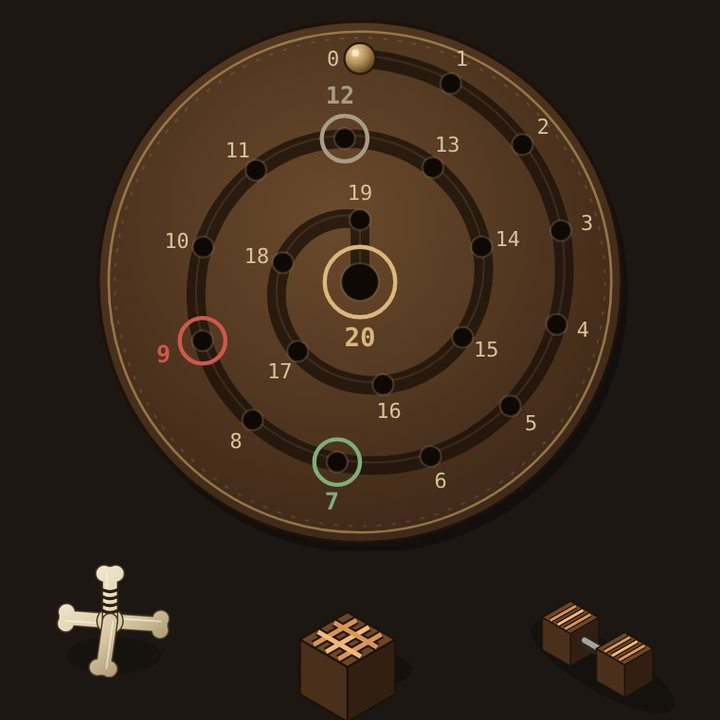
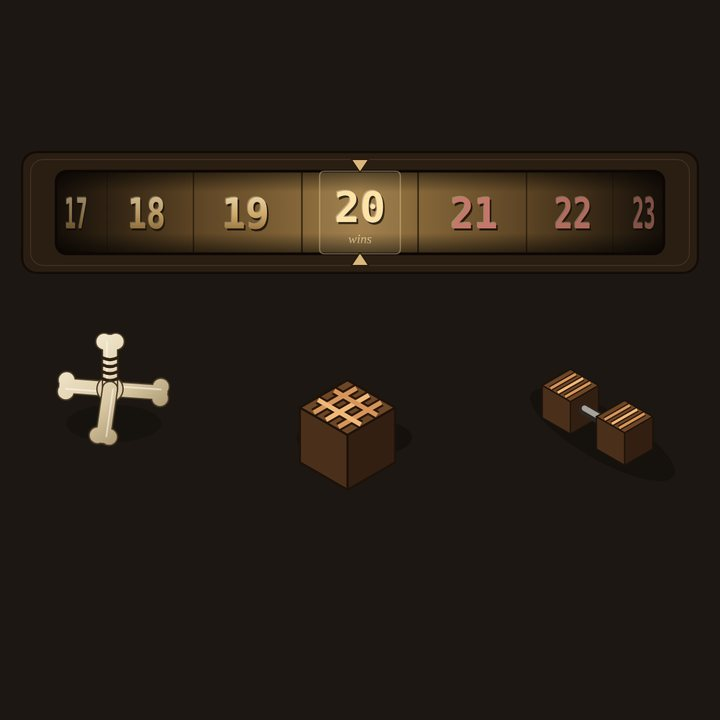
Fiche: dial, split tray and dice beside it
The total now shows on a spinning bronze dial with embossed numbers,
in place of the spiral board (kept in the code, hidden). Each
player's dice stand in a column beside a narrower tray split down the
middle, and rolled dice land on the roller's own half, so the dice
and the total are visible together. Front-page image updated.

Claude-Session: https://claude.ai/code/session_01BjwL3VDDg4VQwAjia9yU2n

diff --git a/fiche/index.html b/fiche/index.html
@@ -54,6 +54,7 @@ h1 { font-family: var(--font-display); font-weight: 400; font-size: clamp(2.2rem
 .status.again { color: var(--again); }
 svg.wide { width: 100%; height: auto; display: block; }
 .disk-wrap { display: grid; gap: 4px; justify-items: center; }
+.disk-wrap[hidden] { display: none; }
 #pegs { width: 100%; max-width: 380px; height: auto; display: block; }
 .total { margin: 0; font-family: var(--font-mono); font-size: .85rem; color: var(--muted); }
 .total b { font-size: 1.6rem; color: var(--bronze-hi); font-weight: 500; }
@@ -65,24 +66,33 @@ svg.wide { width: 100%; height: auto; display: block; }
 .hand-head .who.you { color: var(--you); }
 .hand-head .who.rival { color: var(--rival); }
 .hand-head .note { font-size: .88rem; color: var(--muted); font-style: italic; }
-.dice { display: grid; grid-template-columns: repeat(3, minmax(0, 1fr)); gap: 10px; }
+.playfield { display: grid; grid-template-columns: minmax(0, 150px) minmax(0, 1fr) minmax(0, 150px); gap: 12px; align-items: start; }
+#tray { width: 100%; height: auto; display: block; }
+#dial { border-radius: 12px; }
+.dice { display: grid; grid-template-columns: minmax(0, 1fr); gap: 8px; }
+.hand-head { min-height: 2.6em; align-content: start; }
+.hand.rival .hand-head { text-align: right; justify-content: flex-end; }
+@media (max-width: 640px) {
+  .playfield { grid-template-columns: minmax(0, 1fr); }
+  .playfield .dice { grid-template-columns: repeat(3, minmax(0, 1fr)); }
+  #youHand { order: 3; } #tray { order: 2; } #rivalHand { order: 1; }
+  .hand-head { min-height: 0; }
+}
 .die-btn {
   font: inherit; color: var(--ink); cursor: pointer;
   border: 1px solid var(--line); border-radius: 12px; background: linear-gradient(160deg, var(--oak-3), var(--oak-2));
   padding: 8px 6px 9px; display: grid; justify-items: center; gap: 2px; min-width: 0;
   transition: transform .15s ease, border-color .15s ease, opacity .2s;
 }
-.die-btn svg { width: 100%; max-width: 120px; height: auto; aspect-ratio: 1.3; }
-.die-btn .nm { font-weight: 600; font-size: .92rem; }
-.die-btn .rg { font-family: var(--font-mono); font-size: .74rem; color: var(--muted); }
+.die-btn svg { width: 100%; max-width: 92px; height: auto; aspect-ratio: 1.3; }
+.die-btn .nm { font-weight: 600; font-size: .95rem; line-height: 1.2; }
+.die-btn .rg { font-family: var(--font-mono); font-size: 1.05rem; font-weight: 500; color: var(--bronze-hi); line-height: 1.2; }
 .die-btn .odds { font-family: var(--font-mono); font-size: .8rem; color: var(--bronze-hi); min-height: 1.2em; }
 .die-btn:enabled:hover { border-color: var(--bronze); transform: translateY(-2px); }
 .die-btn:focus-visible { outline: 2px solid var(--bronze-hi); outline-offset: 2px; }
 .die-btn:disabled { cursor: default; }
 .die-btn.spent { opacity: .22; }
 .die-btn.best { border-color: var(--bronze-hi); box-shadow: 0 0 0 1px var(--bronze-hi) inset; }
-.rival .die-btn { padding: 4px 4px 6px; }
-.rival .die-btn svg { max-width: 84px; }
 
 aside { display: grid; gap: 22px; min-width: 0; }
 .panel { display: grid; gap: 9px; }
@@ -151,22 +161,25 @@ button.btn.coach[aria-pressed="true"] { border-style: solid; border-color: var(-
   <div class="game">
     <section class="table" aria-label="The table">
       <div class="status" id="status" role="status" aria-live="polite"></div>
-      <div class="disk-wrap">
+      <!-- The spiral board is kept but hidden for now; the dial shows the total. -->
+      <div class="disk-wrap" hidden>
         <svg id="pegs" viewBox="0 0 260 260" aria-label="Scoring spiral"></svg>
         <p class="total" id="totalLine">Total <b>0</b></p>
       </div>
-      <div class="hand rival" id="rivalHand">
-        <div class="hand-head"><span class="who rival" id="rivalName">Rival</span><span class="note" id="rivalNote"></span></div>
-        <div class="dice" id="rivalDice"></div>
-      </div>
+      <svg id="dial" class="wide" viewBox="0 0 640 118" role="img" aria-label="Total"></svg>
 
-      <svg id="tray" class="wide" viewBox="0 0 640 258" aria-label="Rolling tray"></svg>
+      <div class="playfield">
+        <div class="hand you" id="youHand">
+          <div class="hand-head"><span class="who you" id="youName">You</span><span class="note" id="youNote"></span></div>
+          <div class="dice" id="youDice"></div>
+        </div>
+        <svg id="tray" viewBox="0 0 420 300" aria-label="Rolling tray, your half on the left and your rival's on the right"></svg>
+        <div class="hand rival" id="rivalHand">
+          <div class="hand-head"><span class="who rival" id="rivalName">Rival</span><span class="note" id="rivalNote"></span></div>
+          <div class="dice" id="rivalDice"></div>
+        </div>
+      </div>
       <div class="card" id="card" hidden></div>
-
-      <div class="hand you" id="youHand">
-        <div class="hand-head"><span class="who you" id="youName">You</span><span class="note" id="youNote"></span></div>
-        <div class="dice" id="youDice"></div>
-      </div>
     </section>
 
     <aside>
@@ -440,9 +453,62 @@ button.btn.coach[aria-pressed="true"] { border-style: solid; border-color: var(-
     h += `<g id="pegMark" style="transition: transform .12s ease-out"><circle cx="0" cy="0" r="7.5" fill="url(#peg)" stroke="#2a1a0a"/><circle cx="-2.2" cy="-2.6" r="1.8" fill="#fff" opacity=".55"/></g>`;
     pegsEl.innerHTML = h;
   }
+  // The dial: a bronze drum turning on a vertical axis behind a window, with the
+  // numbers embossed around it. The total sits under the pointer at the centre.
+  const dialEl = document.getElementById("dial");
+  const DIAL = { pos: 0, raf: 0 }, DSTEP = 21, DR = 300;
+  const DMARK = { 7: ["again", "#a9d6a2"], 9: ["loses", "#f08c80"], 12: ["draw", "#d8cdb6"], 20: ["wins", "#ffe2a6"] };
+  function drawDial(pos) {
+    let h = `<defs>
+      <linearGradient id="drum" x1="0" y1="0" x2="1" y2="0"><stop offset="0" stop-color="#140e08"/><stop offset=".22" stop-color="#5a4223"/><stop offset=".5" stop-color="#9c7a45"/><stop offset=".78" stop-color="#5a4223"/><stop offset="1" stop-color="#140e08"/></linearGradient>
+      <linearGradient id="drumV" x1="0" y1="0" x2="0" y2="1"><stop offset="0" stop-color="#000" stop-opacity=".55"/><stop offset=".25" stop-color="#000" stop-opacity="0"/><stop offset=".75" stop-color="#000" stop-opacity="0"/><stop offset="1" stop-color="#000" stop-opacity=".6"/></linearGradient>
+      <linearGradient id="num" x1="0" y1="0" x2="0" y2="1"><stop offset="0" stop-color="#fbe9c2"/><stop offset=".55" stop-color="#d0aa68"/><stop offset="1" stop-color="#7c5a2c"/></linearGradient>
+      <clipPath id="win"><rect x="34" y="20" width="572" height="78" rx="10"/></clipPath></defs>
+      <rect x="2" y="2" width="636" height="114" rx="14" fill="#2a1d12" stroke="#120b06" stroke-width="2"/>
+      <rect x="10" y="9" width="620" height="100" rx="12" fill="none" stroke="rgb(255 220 170 / .1)"/>
+      <g clip-path="url(#win)"><rect x="34" y="20" width="572" height="78" fill="url(#drum)"/>`;
+    // the drum's ribs, turning with it
+    for (let k = Math.floor(pos) - 6; k <= Math.ceil(pos) + 6; k++) {
+      const a = (k + 0.5 - pos) * DSTEP * Math.PI / 180; if (Math.abs(a) > 1.5) continue;
+      const x = 320 + DR * Math.sin(a);
+      h += `<line x1="${f(x)}" y1="20" x2="${f(x)}" y2="98" stroke="#1a1109" stroke-width="${f(1.6 * Math.cos(a))}" opacity="${f(.7 * Math.cos(a))}"/>`;
+    }
+    for (let n = 0; n <= 30; n++) {
+      const a = (n - pos) * DSTEP * Math.PI / 180; if (Math.abs(a) > 1.45) continue;
+      const c = Math.cos(a), x = 320 + DR * Math.sin(a), m = DMARK[n];
+      const fill = n > 20 ? "#c97a6e" : m ? m[1] : "url(#num)";
+      h += `<g transform="translate(${f(x)} 0) scale(${f(Math.max(.05, c))} 1)" opacity="${f(.25 + .75 * c)}">
+        <text x="1.6" y="${m ? 70 : 76}" text-anchor="middle" font-family="IBM Plex Mono, monospace" font-weight="600" font-size="40" fill="#0d0805" opacity=".8">${n}</text>
+        <text x="-1" y="${m ? 67 : 73}" text-anchor="middle" font-family="IBM Plex Mono, monospace" font-weight="600" font-size="40" fill="#fff4dc" opacity=".35">${n}</text>
+        <text x="0" y="${m ? 68 : 74}" text-anchor="middle" font-family="IBM Plex Mono, monospace" font-weight="600" font-size="40" fill="${fill}">${n}</text>
+        ${m ? `<text x="0" y="88" text-anchor="middle" font-family="Spectral, Georgia, serif" font-style="italic" font-size="12" fill="${m[1]}">${m[0]}</text>` : ""}</g>`;
+    }
+    h += `<rect x="34" y="20" width="572" height="78" fill="url(#drumV)"/></g>
+      <rect x="34" y="20" width="572" height="78" rx="10" fill="none" stroke="#0c0704" stroke-width="2.5"/>
+      <rect x="282" y="20" width="76" height="78" rx="4" fill="rgb(255 240 210 / .06)" stroke="rgb(255 225 170 / .35)" stroke-width="1.2"/>
+      <path d="M312 9 L328 9 L320 21 Z" fill="#d9b77d" stroke="#2a1a0a"/>
+      <path d="M312 109 L328 109 L320 97 Z" fill="#d9b77d" stroke="#2a1a0a"/>`;
+    dialEl.innerHTML = h;
+  }
+  function setDial(t) {
+    if (DIAL.target === t) return;
+    DIAL.target = t;
+    dialEl.setAttribute("aria-label", `Total ${t}`);
+    cancelAnimationFrame(DIAL.raf);
+    const from = DIAL.pos, t0 = performance.now(), dur = reduce ? 1 : 380 + Math.min(700, Math.abs(t - from) * 70);
+    const back = k => { const c = 1.4; return 1 + (c + 1) * Math.pow(k - 1, 3) + c * Math.pow(k - 1, 2); };
+    const step = now => {
+      const k = Math.min(1, (now - t0) / dur);
+      DIAL.pos = from + (t - from) * back(k); drawDial(DIAL.pos);
+      if (k < 1) DIAL.raf = requestAnimationFrame(step); else { DIAL.pos = t; drawDial(t); }
+    };
+    DIAL.raf = requestAnimationFrame(step);
+  }
+
   // Walk the peg along the groove one hole at a time.
   let pegAt = 0, pegTimer = null;
   function placePeg(t, instant) {
+    setDial(t);
     const m = document.getElementById("pegMark"); if (!m) return;
     const target = Math.min(20, t);
     const set = k => { const [x, y] = SPIRAL.holes[k]; m.style.transform = `translate(${x.toFixed(1)}px, ${y.toFixed(1)}px)`; };
@@ -454,26 +520,37 @@ button.btn.coach[aria-pressed="true"] { border-style: solid; border-color: var(-
     if (tl) tl.innerHTML = t > 20 ? `Total <b>${t}</b> · over` : `Total <b>${t}</b>`;
   }
 
-  // Tray slots: two rows of five
-  const slot = i => [92 + (i % 4) * 152, 84 + Math.floor(i / 4) * 128];
-  const trayH = () => Math.max(2, Math.ceil((R.rolls.length + 1) / 4)) * 128 + 40;
+  // The tray is split down the middle: your dice land on the left half, your rival's on the right.
+  const TW = 420, HALF = TW / 2;
+  const nthOf = i => R.rolls.slice(0, i).filter(r => r.p === R.rolls[i].p).length;
+  const slotFor = (p, k) => [(p === 1 ? 0 : HALF) + 57 + (k % 2) * 96, 72 + Math.floor(k / 2) * 106];
+  const slot = i => slotFor(R.rolls[i].p, nthOf(i));
+  const trayH = () => { const n = Math.max(R.rolls.filter(r => r.p === 1).length, R.rolls.filter(r => r.p === 2).length) + 1; return Math.max(3, Math.ceil(n / 2)) * 106 + 30; };
   function drawTrayBase() {
     const H = trayH();
-    trayEl.setAttribute("viewBox", `0 0 640 ${H}`);
+    trayEl.setAttribute("viewBox", `0 0 ${TW} ${H}`);
+    const you = M.mode === "pvp" ? "PLAYER 1" : "YOUR SIDE", them = M.mode === "pvp" ? "PLAYER 2" : "RIVAL'S SIDE";
     return `<defs><radialGradient id="felt" cx="50%" cy="45%" r="70%"><stop offset="0" stop-color="#3a2a1c"/><stop offset="1" stop-color="#1f160f"/></radialGradient></defs>
-      <rect x="2" y="2" width="636" height="${H - 4}" rx="16" fill="url(#felt)" stroke="#3d3328" stroke-width="2"/>
-      <rect x="12" y="12" width="616" height="${H - 24}" rx="10" fill="none" stroke="rgb(255 220 170 / .07)" stroke-dasharray="3 6"/>`;
+      <rect x="2" y="2" width="${TW - 4}" height="${H - 4}" rx="14" fill="url(#felt)" stroke="#3d3328" stroke-width="2"/>
+      <rect x="${HALF - 3}" y="10" width="6" height="${H - 20}" rx="3" fill="#120c07" stroke="rgb(255 220 170 / .12)"/>
+      <rect x="2" y="2" width="${HALF - 4}" height="${H - 4}" rx="14" fill="rgb(217 164 65 / .035)"/>
+      <rect x="${HALF + 2}" y="2" width="${HALF - 4}" height="${H - 4}" rx="14" fill="rgb(159 180 196 / .035)"/>
+      <text x="${HALF / 2}" y="24" text-anchor="middle" font-family="IBM Plex Mono, monospace" font-size="9.5" letter-spacing="2" fill="#d9a441" opacity=".55">${you}</text>
+      <text x="${HALF + HALF / 2}" y="24" text-anchor="middle" font-family="IBM Plex Mono, monospace" font-size="9.5" letter-spacing="2" fill="#9fb4c4" opacity=".55">${them}</text>`;
   }
   function drawTray(anim) {
     let h = drawTrayBase();
     R.rolls.forEach((r, i) => {
       if (anim && anim.index === i) return;
       const [x, y] = slot(i);
-      h += `<g transform="translate(${x} ${y}) scale(1.05)">${dieArt(r.d, r.v, r.seed)}</g>`;
-      h += `<text x="${x}" y="${y + 66}" text-anchor="middle" font-family="IBM Plex Mono, monospace" font-size="15" font-weight="500" fill="${r.p === 1 ? "#d9a441" : "#9fb4c4"}">${r.v}${r.v === 3 ? " ↻" : ""}</text>`;
+      h += `<g transform="translate(${x} ${y}) scale(.78)">${dieArt(r.d, r.v, r.seed)}</g>`;
+      h += `<text x="${x}" y="${y + 50}" text-anchor="middle" font-family="IBM Plex Mono, monospace" font-size="15" font-weight="500" fill="${r.p === 1 ? "#d9a441" : "#9fb4c4"}">${r.v}${r.v === 3 ? " ↻" : ""}</text>`;
     });
-    if (anim) h += `<g transform="translate(${f(anim.x)} ${f(anim.y)}) rotate(${f(anim.rot)}) scale(1.05)">${dieArt(anim.d, anim.face, anim.seed)}</g>`;
-    if (!R.rolls.length && !anim) h += `<text x="320" y="${trayH() / 2 + 6}" text-anchor="middle" font-family="Spectral, Georgia, serif" font-style="italic" font-size="16" fill="#a99c84">${M.over ? "" : "The tray is empty. " + nameOf(R.turn) + " roll first."}</text>`;
+    if (anim) h += `<g transform="translate(${f(anim.x)} ${f(anim.y)}) rotate(${f(anim.rot)}) scale(.78)">${dieArt(anim.d, anim.face, anim.seed)}</g>`;
+    if (!R.rolls.length && !anim && !M.over) {
+      const cx = R.turn === 1 ? HALF / 2 : HALF + HALF / 2;
+      h += `<text x="${cx}" y="${trayH() / 2}" text-anchor="middle" font-family="Spectral, Georgia, serif" font-style="italic" font-size="14" fill="#a99c84">${nameOf(R.turn)}</text><text x="${cx}" y="${trayH() / 2 + 18}" text-anchor="middle" font-family="Spectral, Georgia, serif" font-style="italic" font-size="14" fill="#a99c84">${verb(R.turn, "roll", "rolls")} first</text>`;
+    }
     trayEl.innerHTML = h;
   }
 
@@ -508,7 +585,7 @@ button.btn.coach[aria-pressed="true"] { border-style: solid; border-color: var(-
     const v = sample(d), seed = Math.random();
     if (R.forced < 0) R.hands[p] &= ~bit(d);
     const index = R.rolls.length;
-    const [tx, ty] = slot(index), sx = 320, sy = p === 1 ? trayH() + 60 : -60;
+    const [tx, ty] = slotFor(p, R.rolls.filter(r => r.p === p).length), sx = p === 1 ? -70 : TW + 70, sy = ty - 30;
     const t0 = performance.now(), dur = reduce ? 1 : 750;
     render();
     const tick = now => {
@@ -644,7 +721,7 @@ button.btn.coach[aria-pressed="true"] { border-style: solid; border-color: var(-
 
   function start(data) {
     try { coach = localStorage.getItem("fiche-coach") === "1"; } catch (e) {}
-    drawPegs();
+    drawPegs(); drawDial(0);
     const saved = (data && data.M && data.R) ? data : load();
     if (saved && !saved.M.over && !saved.R.over) {
       M = saved.M; R = saved.R; busy = false;

diff --git a/index.html b/index.html
@@ -135,7 +135,7 @@ footer a { color: var(--bronze-hi); }
     </article>
 
     <article class="game">
-      <a class="shot" href="fiche/" aria-label="Play Fiche"><img src="images/fiche.jpg" alt="A carved wooden disk with a spiral of 21 holes winding from 0 to 20 at the centre, above a bone caltrop, a wire-wrapped cube and two cubes joined by a rod." width="720" height="720"></a>
+      <a class="shot" href="fiche/" aria-label="Play Fiche"><img src="images/fiche.jpg" alt="A bronze number dial resting on 20, above a bone caltrop, a wire-wrapped cube and two cubes joined by a rod." width="720" height="720"></a>
       <div class="info">
         <p class="kicker">Dice · 2 players or vs computer</p>
         <h2>Fiche</h2>
